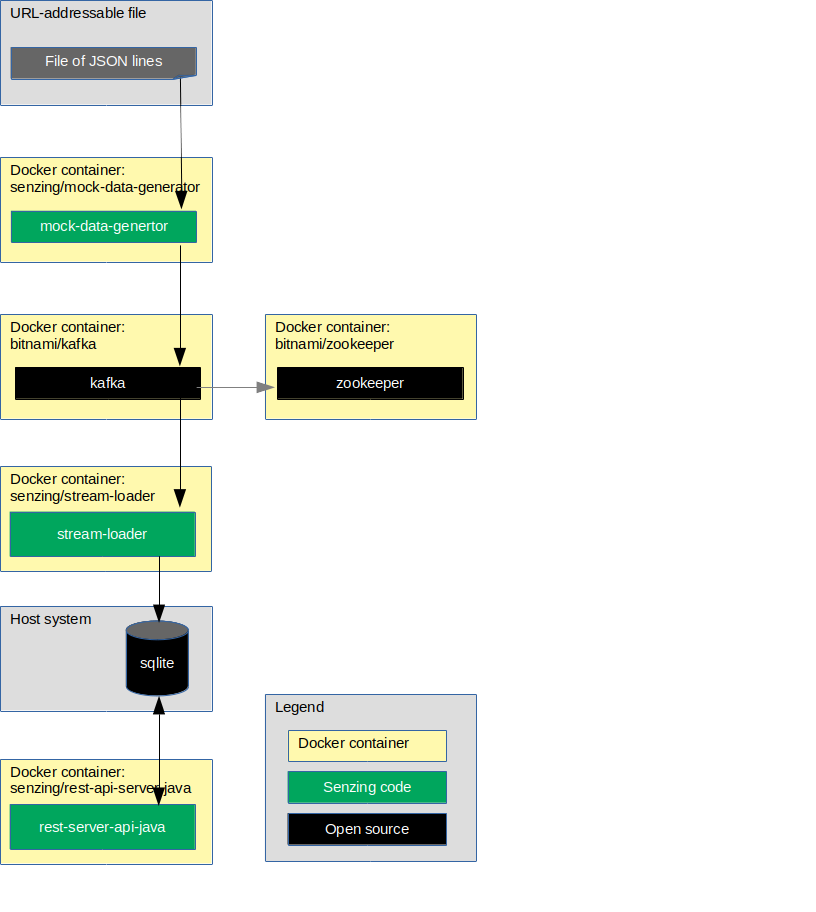
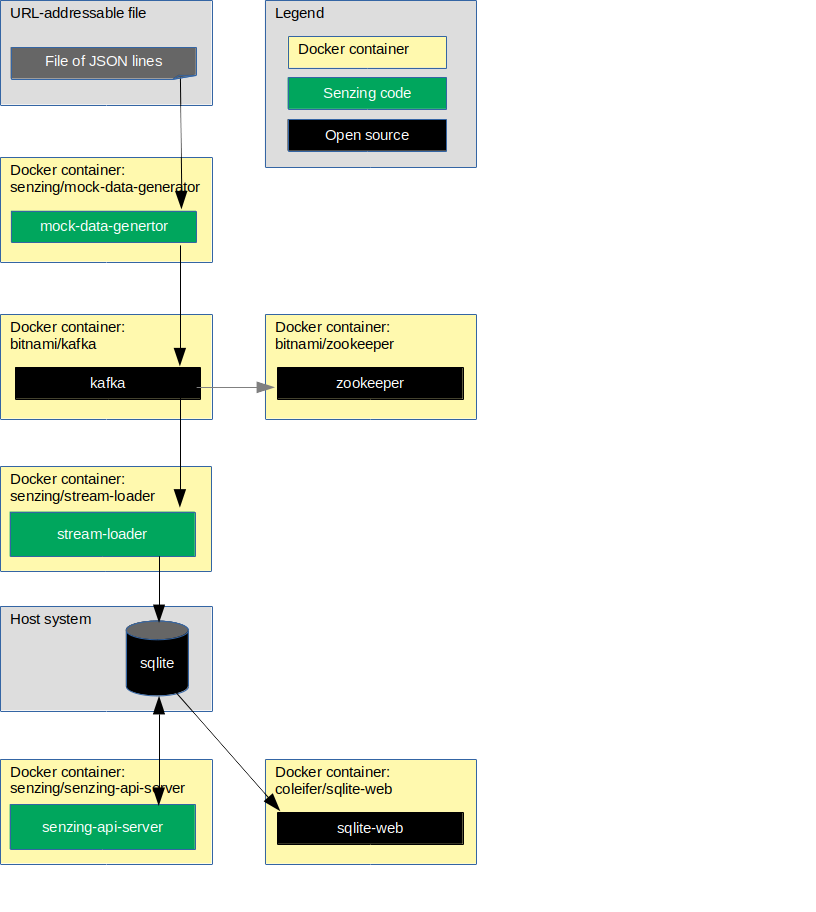
issue-18 Added SQLite web viewer

Changed region(s): [[0.3064, 0.7368, 0.5821, 0.9518], [0.3064, 0.0, 0.5821, 0.1842], [0.0306, 0.8596, 0.2451, 0.9211]]

diff --git a/docs/docker-compose-stream-loader-kafka-sqlite/README.md b/docs/docker-compose-stream-loader-kafka-sqlite/README.md
@@ -10,41 +10,64 @@ This docker formation brings up the following docker containers:
 
 1. *[bitnami/zookeeper](https://github.com/bitnami/bitnami-docker-zookeeper)*
 1. *[bitnami/kafka](https://github.com/bitnami/bitnami-docker-kafka)*
+1. *[coleifer/sqlite-web](https://github.com/coleifer/sqlite-web)*
 1. *[senzing/mock-data-generator](https://github.com/Senzing/mock-data-generator)*
-1. *[senzing/python-base](https://github.com/Senzing/docker-python-base)*
+1. *[senzing/python-postgresql-base](https://github.com/Senzing/docker-python-postgresql-base)*
 1. *[senzing/stream-loader](https://github.com/Senzing/stream-loader)*
-1. *[senzing/rest-api-server-java](https://github.com/Senzing/rest-api-server-java)*
+1. *[senzing/senzing-api-server](https://github.com/Senzing/senzing-api-server)*
 
 ### Contents
 
+1. [Expectations](#expectations)
+    1. [Space](#space)
+    1. [Time](#time)
+    1. [Background knowledge](#background-knowledge)
+1. [Preparation](#preparation)
+    1. [Clone repository](#clone-repository)
+    1. [Create SENZING_DIR](#create-senzing_dir)
+    1. [Prerequisite software](#prerequisite-software)
+1. [Using docker-compose](#using-docker-compose)
+    1. [Build docker images](#build-docker-images)
+    1. [Configuration](#configuration)
+    1. [Run docker formation to read from Kafka](#run-docker-formation-to-read-from-kafka)
+    1. [Test Docker container](#test-docker-container)
+1. [Cleanup](#cleanup)
+
+## Expectations
+
+### Space
+
+This repository and demonstration require 7 GB free disk space.
+
+### Time
+
+Budget 2 hours to get the demonstration up-and-running, depending on CPU and network speeds.
+
+### Background knowledge
+
+This repository assumes a working knowledge of:
+
+1. [Docker](https://github.com/Senzing/knowledge-base/blob/master/WHATIS/docker.md)
+1. [Docker-compose](https://github.com/Senzing/knowledge-base/blob/master/WHATIS/docker-compose.md)
+
 ## Preparation
 
-### Set environment variables
+### Clone repository
 
-1. These variables may be modified, but do not need to be modified.
-   The variables are used throughout the installation procedure.
+1. Set these environment variable values:
 
     ```console
     export GIT_ACCOUNT=senzing
     export GIT_REPOSITORY=docker-compose-stream-loader-kafka-demo
     ```
 
-1. Synthesize environment variables.
+   Then follow steps in [clone-repository](https://github.com/Senzing/knowledge-base/blob/master/HOWTO/clone-repository.md).
+
+1. After the repository has been cloned, be sure the following are set:
 
     ```console
     export GIT_ACCOUNT_DIR=~/${GIT_ACCOUNT}.git
     export GIT_REPOSITORY_DIR="${GIT_ACCOUNT_DIR}/${GIT_REPOSITORY}"
-    export GIT_REPOSITORY_URL="https://github.com/${GIT_ACCOUNT}/${GIT_REPOSITORY}.git"
-    ```
-
-### Clone repository
-
-1. Get repository.
-
-    ```console
-    mkdir --parents ${GIT_ACCOUNT_DIR}
-    cd  ${GIT_ACCOUNT_DIR}
-    git clone ${GIT_REPOSITORY_URL}
     ```
 
 ### Create SENZING_DIR
@@ -52,22 +75,28 @@ This docker formation brings up the following docker containers:
 If you do not already have an `/opt/senzing` directory on your local system, visit
 [HOWTO - Create SENZING_DIR](https://github.com/Senzing/knowledge-base/blob/master/HOWTO/create-senzing-dir.md).
 
-### Software
+### Prerequisite software
 
 The following software programs need to be installed.
 
 #### docker
 
-```console
-sudo docker --version
-sudo docker run hello-world
-```
+1. [Install docker](https://github.com/Senzing/knowledge-base/blob/master/HOWTO/install-docker.md)
+1. Test
+
+    ```console
+    sudo docker --version
+    sudo docker run hello-world
+    ```
 
 #### docker-compose
 
-```console
-sudo docker-compose --version
-```
+1. [Install docker-compose](https://github.com/Senzing/knowledge-base/blob/master/HOWTO/install-docker-compose.md)
+1. Test
+
+    ```console
+    sudo docker-compose --version
+    ```
 
 ## Using docker-compose
 
@@ -76,12 +105,21 @@ sudo docker-compose --version
 1. Build docker images.
 
     ```console
-    sudo docker build --tag senzing/python-base         https://github.com/senzing/docker-python-base.git
+    export BASE_IMAGE=senzing/python-postgresql-base
+
+    sudo docker build \
+      --tag ${BASE_IMAGE} \
+      https://github.com/senzing/docker-python-postgresql-base.git
+
+    sudo docker build \
+      --tag senzing/stream-loader \
+      --build-arg BASE_IMAGE=${BASE_IMAGE} \
+      https://github.com/senzing/stream-loader.git
+
     sudo docker build --tag senzing/mock-data-generator https://github.com/senzing/mock-data-generator.git
-    sudo docker build --tag senzing/stream-loader       https://github.com/senzing/stream-loader.git
     ```
 
-1. Build [senzing/rest-api-server-java](https://github.com/Senzing/rest-api-server-java).
+1. Build [senzing/senzing-api-server](https://github.com/Senzing/senzing-api-server#using-docker) docker image.
 
 ### Configuration
 
@@ -93,47 +131,46 @@ sudo docker-compose --version
   No default.
   Usually set to "/opt/senzing".
 
-### Run docker formation to initialize database
+### Run docker formation to read from Kafka
 
-1. Launch docker-compose formation.  Example:
+1. Launch docker-compose formation.
 
     ```console
     cd ${GIT_REPOSITORY_DIR}
 
     export SENZING_DIR=/opt/senzing
+
     sudo docker-compose --file docker-compose-sqlite-kafka.yaml up
     ```
 
-1. Wait for the following message in the log.
+### Test Docker container
+
+1. Wait for the following message in the terminal showing docker log.
 
     ```console
-    Started Senzing REST API Server on port 8080.
-
-    Server running at:
-
-    http://0.0.0.0/0.0.0.0:8080/
+    senzing-api-server | Started Senzing REST API Server on port 8080.
+    senzing-api-server |
+    senzing-api-server | Server running at:
+    senzing-api-server | http://0.0.0.0:8080/
     ```
 
-1. Test Senzing REST API server.  *Note:* port 8888 on the localhost has been mapped to port 8080 in the docker-compose file. Example:
+1. Test Senzing REST API server.
+   *Note:* port 8889 on the localhost has been mapped to port 8080 in the docker container.
+   See `WEBAPP_PORT` definition.
+   Example:
 
     ```console
-    export SENZING_API_SERVICE=http://localhost:8888
+    export SENZING_API_SERVICE=http://localhost:8889
 
     curl -X GET ${SENZING_API_SERVICE}/heartbeat
     curl -X GET ${SENZING_API_SERVICE}/license
-    curl -X GET ${SENZING_API_SERVICE}/entities/1
     ```
-
-### Run docker container alone
-
-1. To run [senzing/rest-api-server-java](https://github.com/Senzing/rest-api-server-java) without docker-compose,
-   see [Run docker image](https://github.com/Senzing/rest-api-server-java#run-docker-image).
 
 ## Cleanup
 
 In a separate (or reusable) terminal window:
 
-1. Use environment variable describe in "[Set environment variables](#set-environment-variables)" and "[Configuration](#configuration)".
+1. Use environment variable describe in "[Clone repository](#clone-repository)" and "[Configuration](#configuration)".
 1. Run `docker-compose` command.
 
     ```console
